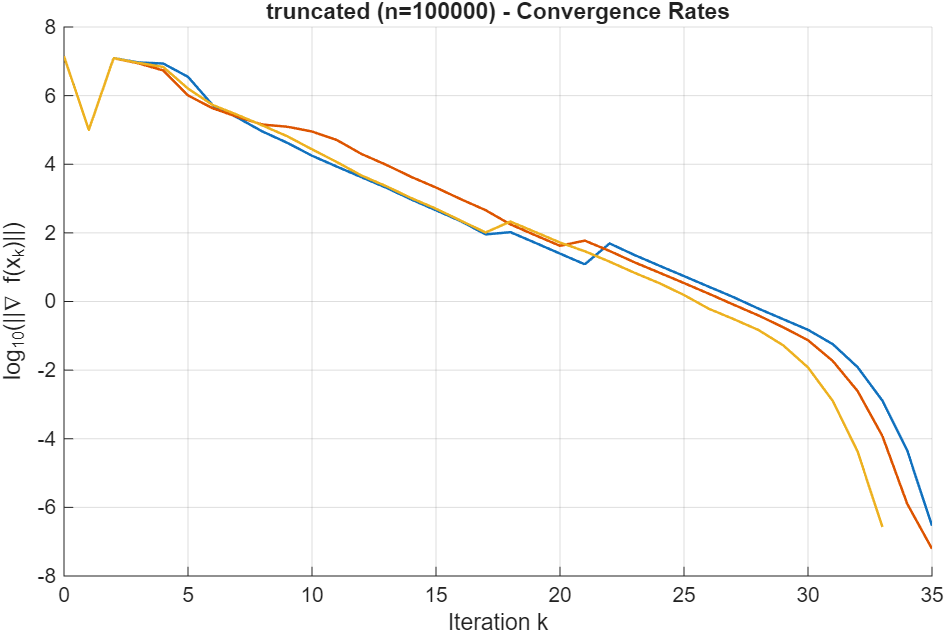
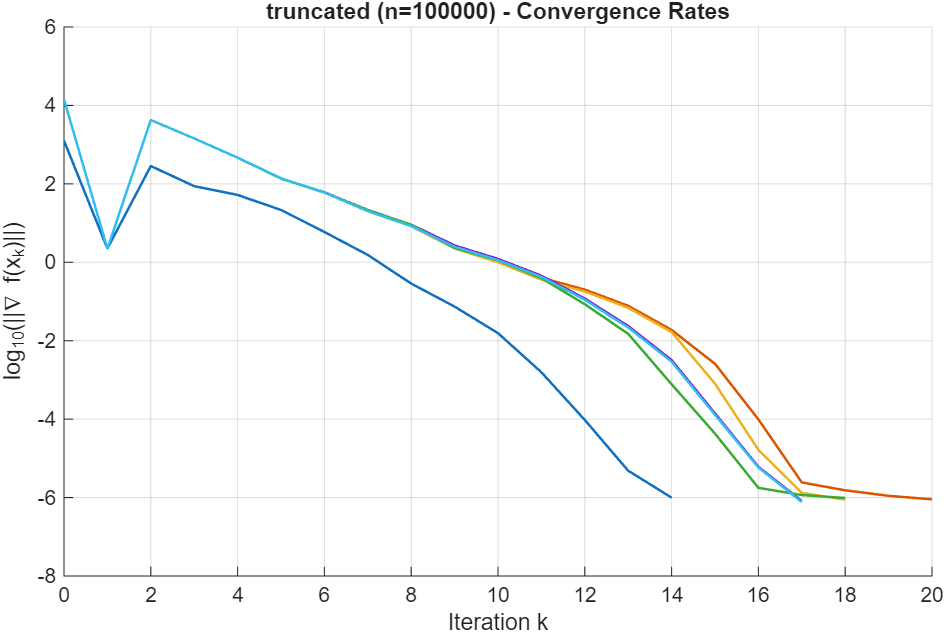
tuning definitivo 2

diff --git a/main/utils/tuning.m b/main/utils/tuning.m
@@ -1,7 +1,4 @@
-%% ============================================================
-%% ADAPTIVE TUNING (rho, beta) with adaptive kmax, btmax, conditional c1 fallback
-%% Implements the queue-based strategy you described
-%% ============================================================
+
 clear; clc; close all;
 addpath(genpath("C:\Users\Utente\Desktop\Corsi\Numerical optimization for large scale problems and Stochastic Optimization\NumericalO4LSP\main"));
 
@@ -25,11 +22,11 @@ bt_baseline  = 1;
 
 % allowable escalation levels (kept aside)
 c1_levels = [1e-4, 1e-3];
-kmax_levels = [10,50, 100, 200];
+kmax_levels = [10,20,50, 100, 200];
 bt_levels = [1, 5, 10, 20];
 
 % runtime sampling for refinement 1
-n_ref1 = 1e3;
+n_ref1 = 1e4;
 n_starts_ref1 = 15;
 
 % Loss weights (used in ref2 / final)
@@ -222,11 +219,15 @@ for i = 1:numel(good_configs)
 
         for s = 1:size(all_x0,2)
             
-            tic;
-            [~, ~, gnorm, k, ~, btseq] = modified_newton_method( ...
-                all_x0(:,s), f, gradf, hessf, ...
-                cfg.kmax, tolgrad, cfg.c1, cfg.rho, cfg.bt, cfg.beta);
-            t_run = toc;
+            for r = 1:3
+                tic;
+                [~, ~, gnorm, k, ~, btseq] = modified_newton_method( ...
+                    all_x0(:,s), f, gradf, hessf, ...
+                    cfg.kmax, tolgrad, cfg.c1, cfg.rho, cfg.bt, cfg.beta);
+                t(r) = toc;
+            end
+            t_run = median(t);
+
 
             if gnorm > tolgrad && (k >= cfg.kmax || (~isempty(btseq) && btseq(end) >= cfg.bt))
                 % if any run fails at this stage, mark config as failed in robustness

diff --git a/main/main31.m b/main/main31.m
@@ -6,17 +6,17 @@ rng(seed);
 addpath(genpath(pwd))
 
 % Defining the problem
-[f, gradf, hessf, xbar_gen] = problem_trig16();
+[f, gradf, hessf, xbar_gen] = problem_broyden31();
 
 % Parameters definition
 dimensions = [2, 10^3, 10^4 , 10^5]; 
-kmax = 50;
+kmax = 20;
 tolgrad = 1e-6;
 c1 = 1e-3;      % Standard Armijo parameter
-rho = 0.5;      % Backtracking contraction factor
-btmax = 20;
-max_cg = 1000;   % Max inner iterations for the conjugate gradient solving method in the truncated one
-beta = 1e-2;
+rho = 0.3;      % Backtracking contraction factor
+btmax = 5;
+max_cg = 5;   % Max inner iterations for the conjugate gradient solving method in the truncated one
+beta = 1e-3;
 
 % Data structures to store results 
 results = struct();
